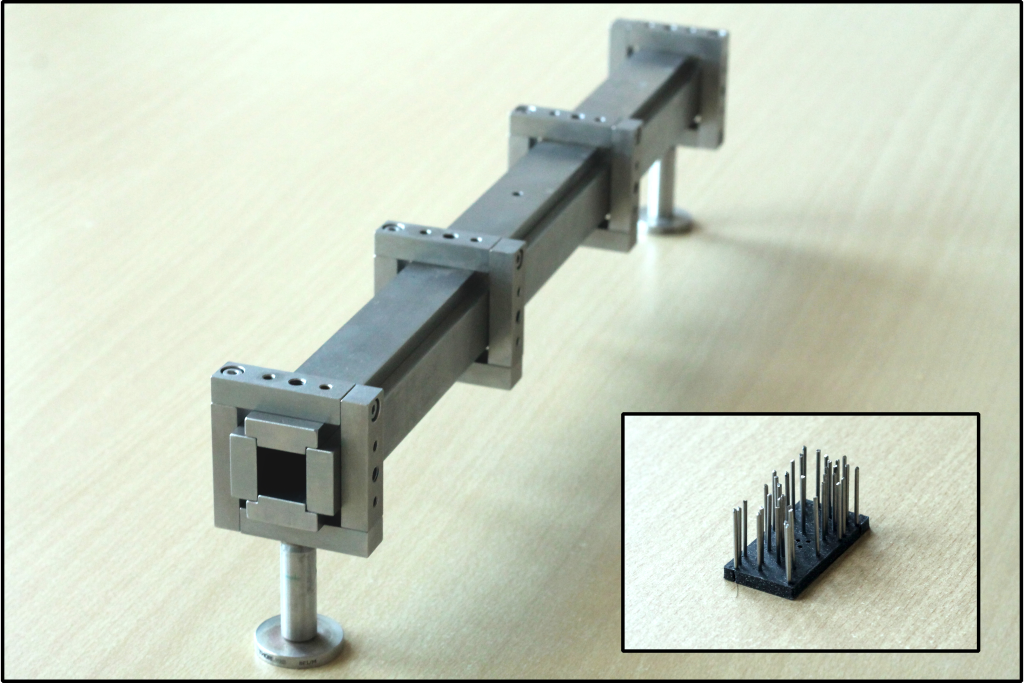
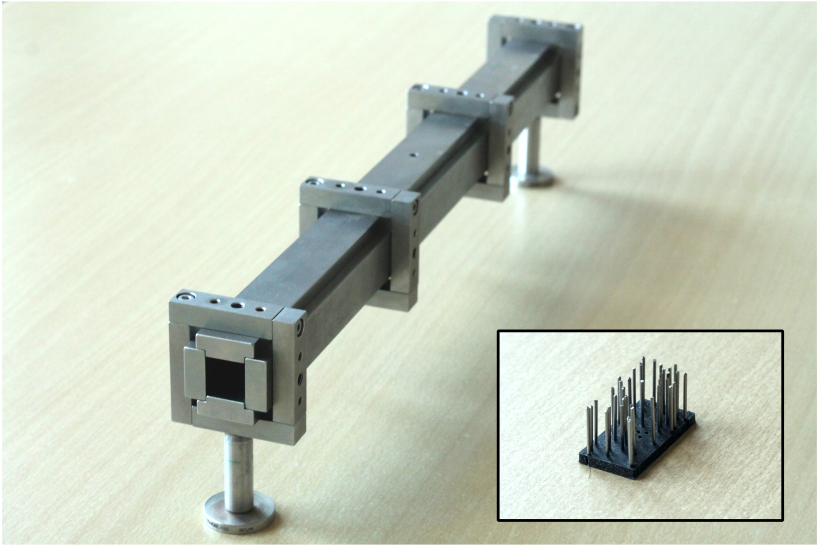
add picture for prl2021

Changed region(s): [[0.0, 0.0, 1.0, 1.0], [0.6105, 0.9341, 0.9463, 0.9652]]

diff --git a/_projects/prl2021.md b/_projects/prl2021.md
@@ -7,6 +7,15 @@ importance: 3
 related_publications: true
 ---
 
+<div class="row">
+    <div class="col-sm mt-3 mt-md-0">
+        {% include figure.liquid loading="eager" path="assets/img/highlights/prl2021_highres.jpg" class="img-fluid rounded z-depth-1" %}
+    </div>
+</div>
+<div class="caption">
+Intensity distributions experimentally measured with the optimal incident field when the hidden target is absent (left) and present (right). Because of complex absorption and scattering processes, these distributions appear as speckle patterns. Despite this complexity, the optimal light field is strongly affected by the presence of the target, which allows us to detect this target with a minimum rate of error.
+</div>
+
 <p align="justify"> 
 In free space, it is easy to determine whether an object is present or not by measuring the light it scatters. However, whenever this object is surrounded by a complex scattering environment, this task becomes extremely challenging due to the absorption and multiple scattering processes that occur within the system. 
 </p>

diff --git a/_projects/prresearch2023.md b/_projects/prresearch2023.md
@@ -16,7 +16,6 @@ related_publications: true
     Photographs of the acoustic waveguide and of the disordered scattering medium composed of 37 rods maintained by a 3D-printed holder. In the actual experiment, the rods are inside the waveguide, and the system is immersed in water.
 </div>
 
-
 <p align="justify"> 
 Time-resolved measurements are ubiquitous in physical sciences and engineering. Such measurements are, however, especially difficult to perform in complex scattering systems such as biological tissues or engineered structures. Indeed, a wave propagating through such a system typically yields an uncontrolled temporal field distribution. Here, we show how this distribution can in fact be controlled and tuned so that it allows one to estimate the value of any given observable with ultimate precision.
 </p>
